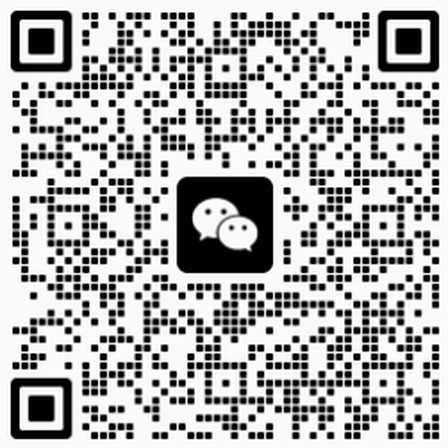
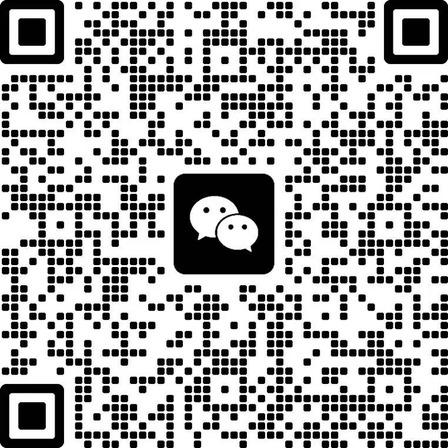
微信群二维码每周更换（10/2）：新码有效期至 10/9，?v=20261002

diff --git a/README.md b/README.md
@@ -75,7 +75,7 @@ MIT License。详见 [LICENSE](./LICENSE)。
 **微信交流群**：有跑不通的问题、或想交流实测心得，微信扫码进群直接说。
 
 <div align="center">
-  <img src="assets/wechat-group-qr.jpg?v=20260929" width="220" alt="微信交流群二维码" />
+  <img src="assets/wechat-group-qr.jpg?v=20261002" width="220" alt="微信交流群二维码" />
   <p><sub>找我聊聊 · 微信交流群</sub></p>
 </div>
 
